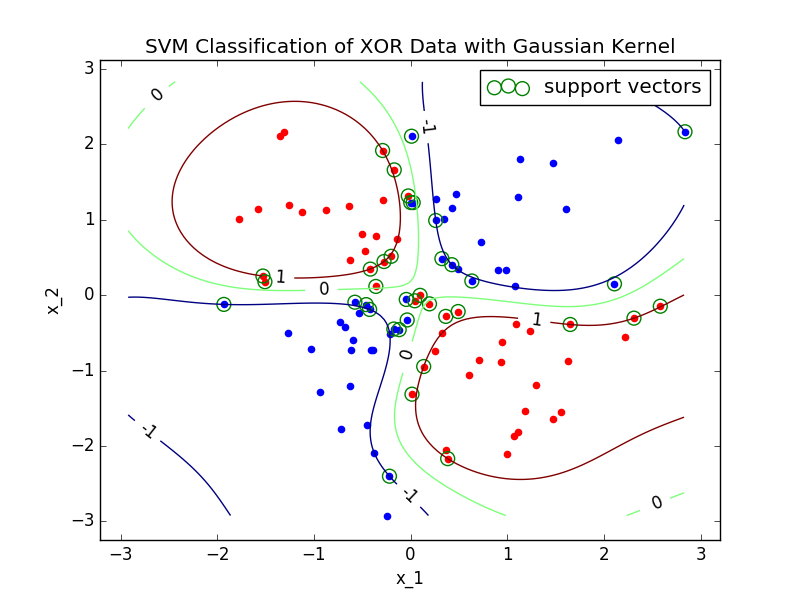
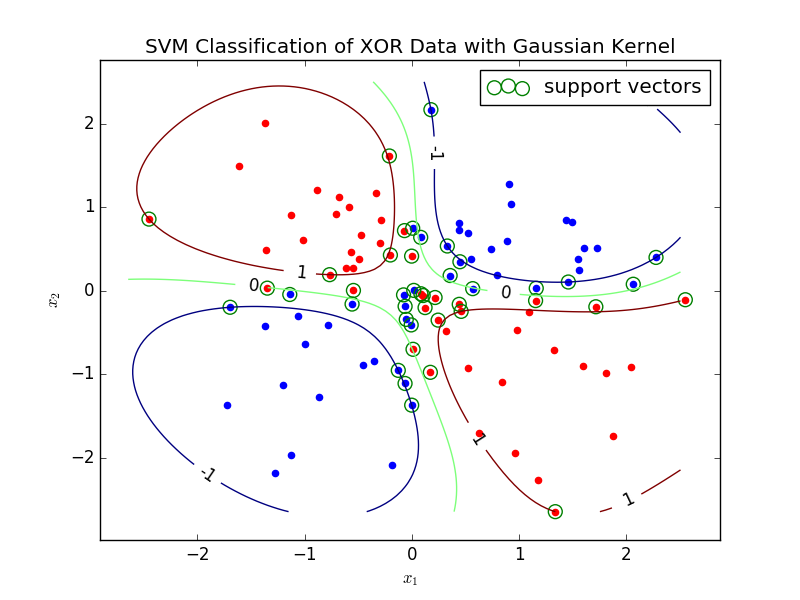
Slightly fancier plots

diff --git a/ch6/kernel_ridge_regression.py b/ch6/kernel_ridge_regression.py
@@ -3,7 +3,10 @@ import numpy as np
 
 
 # demo of kernel ridge regression based on PRML 6.1
-# exactly what it sounds like--ridge regression with kernels; does not yield sparse solutions
+# exactly what it sounds like--ridge regression with kernels, equivalent to
+# pre-processing the input by feature map then performing ordinary ridge
+# regression to learn a linear function in the feature space; does not yield
+# sparse solutions like SVM
 # we perform regression on sinusoidal data with polynomial kernel
 
 def polynomial_kernel(x, y, d):
@@ -40,7 +43,6 @@ def predict(test, X, k, a):
     return y
 
 
-# we use the sinusoidal data set from chapter 1
 X = np.arange(0, 1, 0.01)
 N = len(X)
 sigma = np.random.normal(loc=0, scale=0.1, size=N)  # 0 mean Gaussian noise
@@ -49,7 +51,7 @@ t = true_t + sigma  # noisy targets; these are what we actually observe
 
 # settings
 lamb = 0.001  # regularizer; smoothness penalty; needs cross-validation to get it right
-kernel = lambda x, y: polynomial_kernel(x, y, 3)  # let's use 3rd degree polynomial kernel
+kernel = lambda x, y: polynomial_kernel(x, y, 3)  # 3rd degree polynomial kernel is sufficient
 
 # "training" (solution has closed form)
 K = gram(X, kernel)

diff --git a/ch2/kernel_density.py b/ch2/kernel_density.py
@@ -1,4 +1,5 @@
 import matplotlib.pyplot as plt
+from mpl_toolkits.mplot3d import axes3d, Axes3D
 import numpy as np
 from scipy.stats import multivariate_normal
 
@@ -63,3 +64,9 @@ zs = np.array([kernel_density([x, y], X, k, h) for x, y in zip(np.ravel(xx), np.
 zz = zs.reshape(xx.shape)
 
 ax.plot_wireframe(xx, yy, zz)
+
+ax.set_title("Kernel Density Estimation")
+ax.set_xlabel("$x_1$")
+ax.set_ylabel("$x_2$")
+ax.set_zlabel("probability density")
+plt.savefig(__file__.split('.')[0] + '.png')

diff --git a/ch7/svm.py b/ch7/svm.py
@@ -133,8 +133,8 @@ zs = predict(np.array(list(zip(np.ravel(xx), np.ravel(yy)))), X, t, kernel, a, b
 zz = zs.reshape(xx.shape)
 CS = plt.contour(xx, yy, zz, levels=[-1, 0, 1], )  # margin, separating hyperplane, margin
 plt.clabel(CS, fmt='%2.1d', colors='k')
-plt.xlabel("x_1")
-plt.ylabel("x_2")
+plt.xlabel("$x_1$")
+plt.ylabel("$x_2$")
 plt.legend(loc='best')
 plt.title("SVM Classification of XOR Data with Gaussian Kernel")
 plt.savefig(__file__.split('.')[0] + '.png')

diff --git a/ch4/logistic_regression.py b/ch4/logistic_regression.py
@@ -92,8 +92,8 @@ def plot_results(Es, thetas, X, y):
     plt.scatter(X[y == 0][:, 1], X[y == 0][:, 2], color='r')
     plt.scatter(X[y == 1][:, 1], X[y == 1][:, 2], color='g')
     plt.title("Logistic Regression on Iris Data")
-    plt.xlabel("x_1")
-    plt.ylabel("x_2")
+    plt.xlabel("$x_1$")
+    plt.ylabel("$x_2$")
     plt.legend(loc='best')
 
     fig.add_subplot(224)    # empty plot for overall spacing
